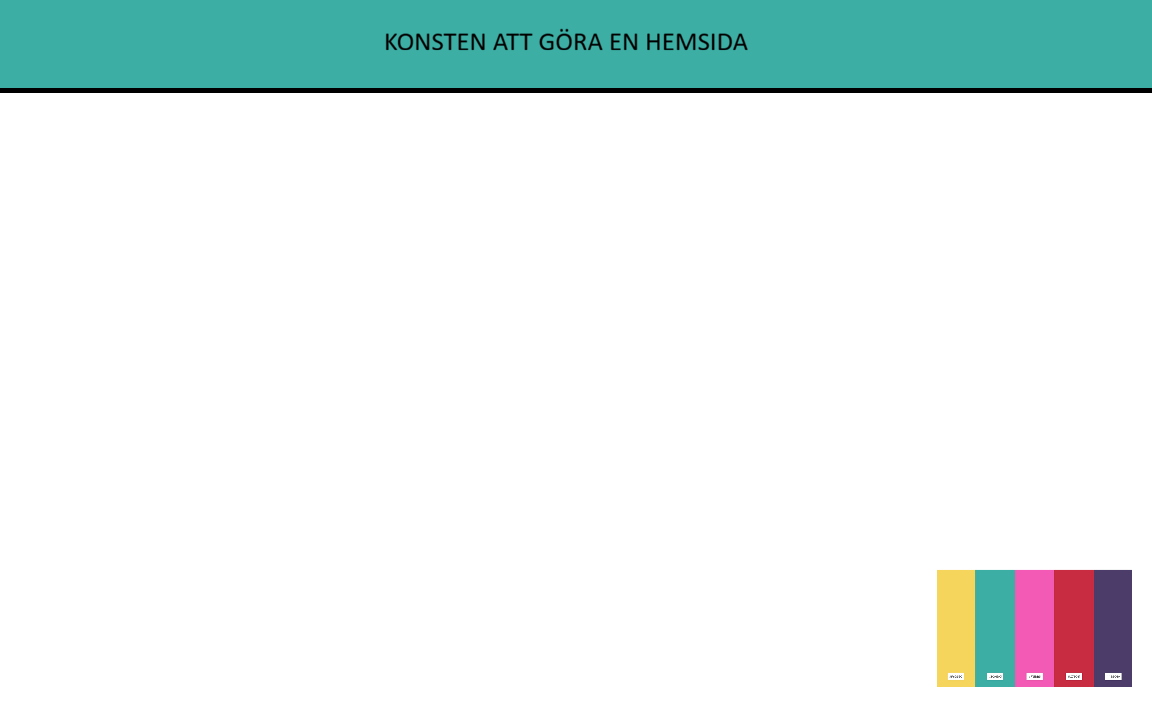
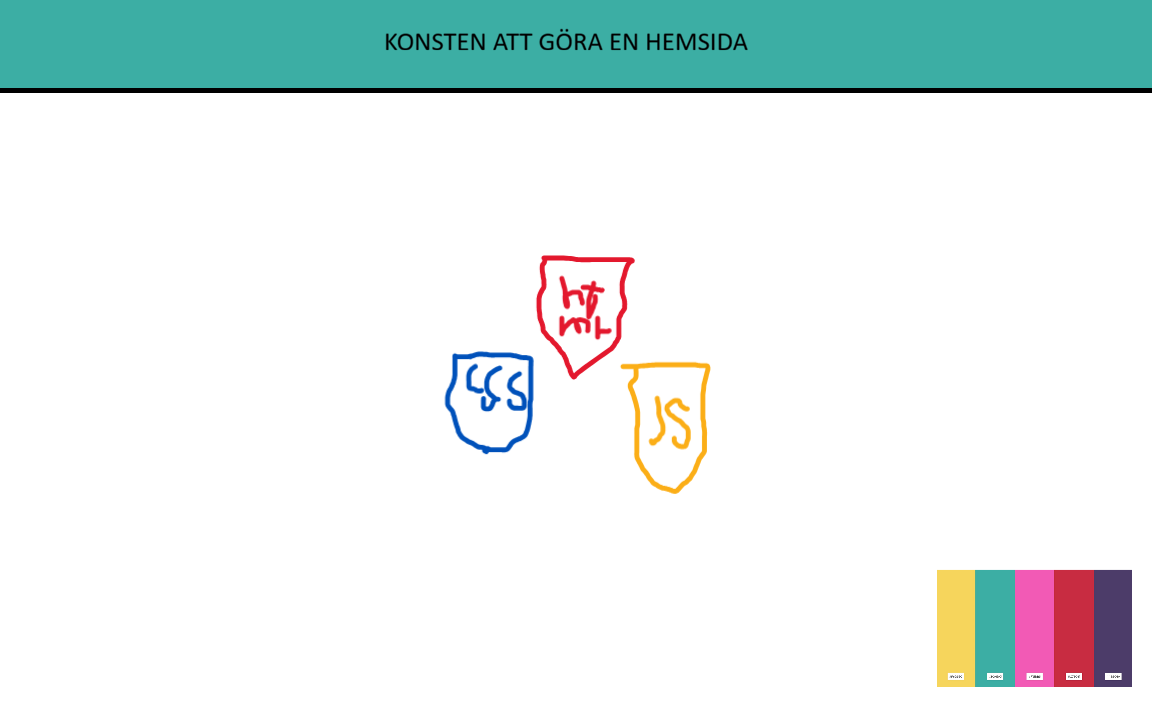
start

Changed region(s): [[0.375, 0.3361, 0.625, 0.7028]]

diff --git a/Konsten att göra en hemsida/styles.css b/Konsten att göra en hemsida/styles.css
@@ -1,17 +1,157 @@
+/* style.css */
+:root {
+    --primary-color: #4CAF50;
+    --secondary-color: #333;
+    --background-color: #f0f0f0;
+    --text-color: #333;
+    --muted-text-color: #666;
+}
+        /* ----- CSS-Variabler: Grunden för vårt tema ----- */
+        :root {
+            /* Dracula-färger (standard) - DARK MODE som bas */
+            --bg: #282a36;          /* Bakgrund (mörk) */
+            --current-line: #44475a; /* Bakgrund för element */
+            --foreground: #f8f8f2;   /* Text (ljus) */
+            --comment: #6272a4;      /* Kommentarer, mindre viktig text */
+
+            /* Header-storlek */
+            --header-height: 120px;
+            --footer-height: 60px;
+        }
+
+        /* LIGHT MODE - samma struktur, nya färger (ljus bakgrund, mörk text) */
+        body.light-mode {
+            --background-color: #f8f8f2;          /* Ljus bakgrund */
+            --current-line: #e6e6e6; /* Ljusare grå */
+            --foreground: #282a36;   /* Mörk text */
+            --comment: #6272a4;
+        }
+
+* {
+    margin: 0;
+    padding: 0;
+    box-sizing: border-box;
+}
+
 body {
-  margin: 0;
-  padding: 0;
+    font-family: Arial, sans-serif;
+    background: var(--background-color);
+    display: flex;
+    justify-content: center;
+    align-items: center;
+    min-height: 100vh;
 }
+
 .container {
-  height: 100vh;
+    max-width: 800px;
+    width: 90%;
+    background: var(--background-color);
+    border-radius: 20px;
+    box-shadow: 0 10px 30px rgba(0,0,0,0.1);
+    overflow: hidden;
 }
-header {
-  background-color: #3CAEA3;
-  height: 60px;
+
+/* Header */
+.header {
+    background: var(--secondary-color);
+    color: white;
+    padding: 1rem 2rem;
+    display: flex;
+    justify-content: space-between;
+    align-items: center;
 }
-nav {
-  display: flex;
-  justify-content: space-around;
-  align-items: center;
-  height: 100%;
+
+.header-buttons {
+    display: flex;
+    gap: 1rem;
+}
+
+.header-btn {
+    background: transparent;
+    border: 2px solid white;
+    color: white;
+    padding: 0.5rem 1rem;
+    border-radius: 30px;
+    cursor: pointer;
+    font-size: 1rem;
+    transition: 0.2s;
+}
+
+.header-btn:hover {
+    background: white;
+    color: #333;
+}
+
+/* Start View */
+.start-view {
+    text-align: center;
+    padding: 3rem 1rem;
+}
+
+.start-view h1 {
+    margin-bottom: 2rem;
+    color: #333;
+}
+
+.button-group {
+    display: flex;
+    gap: 1rem;
+    justify-content: center;
+    flex-wrap: wrap;
+}
+
+.big-btn {
+    background: #4CAF50;
+    color: white;
+    border: none;
+    padding: 1.5rem 2.5rem;
+    font-size: 1.5rem;
+    border-radius: 50px;
+    cursor: pointer;
+    transition: 0.2s;
+    box-shadow: 0 5px 0 #2d6a4f;
+}
+
+.big-btn:hover {
+    transform: translateY(-3px);
+    box-shadow: 0 8px 0 #2d6a4f;
+}
+
+.big-btn:active {
+    transform: translateY(5px);
+    box-shadow: 0 2px 0 #2d6a4f;
+}
+
+/* Guide Container */
+.guide-container {
+    padding: 2rem;
+}
+
+.guide-card {
+    background: #f9f9f9;
+    border-radius: 15px;
+    padding: 2rem;
+    border-left: 5px solid #4CAF50;
+}
+
+.guide-card h2 {
+    margin-bottom: 1rem;
+    color: #333;
+}
+
+.guide-card p {
+    line-height: 1.6;
+    color: #666;
+}
+
+.guide-card code {
+    background: #eee;
+    padding: 0.2rem 0.5rem;
+    border-radius: 5px;
+    font-family: monospace;
+}
+
+/* Utility */
+.hidden {
+    display: none !important;
 }

diff --git a/Konsten att göra en hemsida/script.js b/Konsten att göra en hemsida/script.js
@@ -1,0 +1,73 @@
+// script.js
+document.addEventListener('DOMContentLoaded', function() {
+    // Get DOM elements
+    const header = document.getElementById('header');
+    const startView = document.getElementById('startView');
+    const guideContainer = document.getElementById('guideContainer');
+    const headerButtons = document.getElementById('headerButtons');
+    const startButtons = document.querySelectorAll('#startButtons .nav-btn');
+
+    // Your guide content for each topic
+    const guides = {
+        html: {
+            title: 'HTML Guide',
+            content: '<p><strong>HTML</strong> (HyperText Markup Language) is the standard markup language for documents designed to be displayed in a web browser.</p><p><code>&lt;div&gt;Hello World&lt;/div&gt;</code></p>'
+        },
+        css: {
+            title: 'CSS Guide',
+            content: '<p><strong>CSS</strong> (Cascading Style Sheets) is a style sheet language used for describing the presentation of a document written in HTML.</p><p><code>body { background: blue; }</code></p>'
+        },
+        js: {
+            title: 'JavaScript Guide',
+            content: '<p><strong>JavaScript</strong> is a programming language that enables interactive web pages. It is an essential part of web applications.</p><p><code>console.log("Hello World");</code></p>'
+        }
+    };
+
+    // Function to create a header button
+    function createHeaderButton(topic) {
+        const button = document.createElement('button');
+        button.className = 'header-btn';
+        button.textContent = topic.toUpperCase();
+        button.dataset.topic = topic;
+        
+        button.addEventListener('click', function() {
+            showGuide(topic);
+        });
+        
+        return button;
+    }
+
+    // Function to show a guide
+    function showGuide(topic) {
+        // Hide start view, show header and guide
+        startView.classList.add('hidden');
+        header.classList.remove('hidden');
+        guideContainer.classList.remove('hidden');
+
+        // Clear and repopulate header buttons
+        headerButtons.innerHTML = '';
+        ['html', 'css', 'js'].forEach(t => {
+            headerButtons.appendChild(createHeaderButton(t));
+        });
+
+        // Display the selected guide
+        const guide = guides[topic];
+        guideContainer.innerHTML = `
+            <div class="guide-card">
+                <h2>${guide.title}</h2>
+                ${guide.content}
+                <p style="margin-top: 20px; font-style: italic; color: #999;">
+                    Buttons moved to header — click them to switch guides
+                </p>
+            </div>
+        `;
+    }
+
+    // Add click handlers to start buttons
+    startButtons.forEach(button => {
+        button.addEventListener('click', function() {
+            const topic = this.dataset.topic;
+            showGuide(topic);
+        });
+    });
+});

diff --git a/Konsten att göra en hemsida/index.html b/Konsten att göra en hemsida/index.html
@@ -3,14 +3,39 @@
 <head>
     <meta charset="UTF-8">
     <meta name="viewport" content="width=device-width, initial-scale=1.0">
-    <title>Konsten att göra en hemsida</title>
+    <meta name="description" content="Guide för att skapa en hemsida med HTML, CSS och JavaScript.">
+    <title>Konsten att skapa en hemsida</title>
     <link rel="stylesheet" href="style.css">
-    <script src="javascript.js"></script>
 </head>
+<body>
     <div class="container">
-        <header style="background-color:bisque;">
-            <h1>Konsten att göra en hemsida</h1>
+        <!-- Header (hidden initially) -->
+        <header class="header hidden" id="header">
+            <div class="header-buttons" id="headerButtons"></div>
+            <h2>My Website</h2>
+            <nav id="main-nav">
+                <button class="nav-btn active" data-page="html">&lt;HTML&gt;</button>
+                <button class="nav-btn" data-page="css">{CSS}</button>
+                <button class="nav-btn" data-page="js">JS()</button>
+                <button class="nav-btn" data-page="historia">📜 HISTORIA</button>
+                <button class="nav-btn" data-page="lagar">⚖ LAGAR</button>
+            </nav>
         </header>
+        
+        <!-- Start View (visible initially) -->
+        <div class="start-view" id="startView">
+            <h1>Welcome to My Tutorial</h1>
+            <div class="button-group" id="startButtons">
+                <button class="big-btn" data-topic="html">📄 HTML</button>
+                <button class="big-btn" data-topic="css">🎨 CSS</button>
+                <button class="big-btn" data-topic="js">⚡ JavaScript</button>
+            </div>
+        </div>
 
+        <!-- Guide Container (hidden initially) -->
+        <div class="guide-container hidden" id="guideContainer"></div>
     </div>
+
+    <script src="script.js"></script>
+</body>
 </html>
